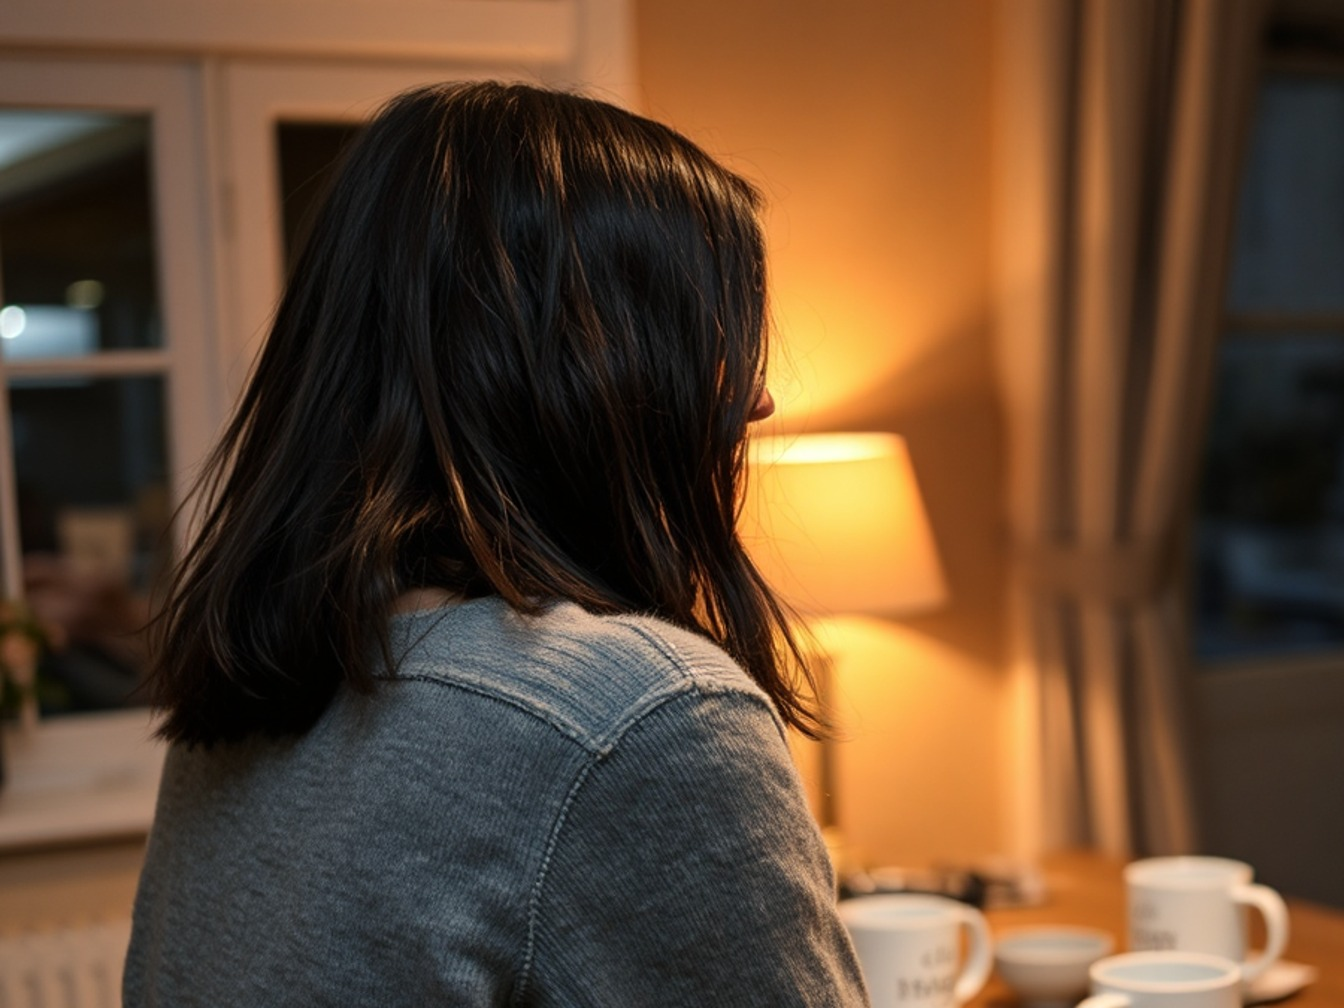
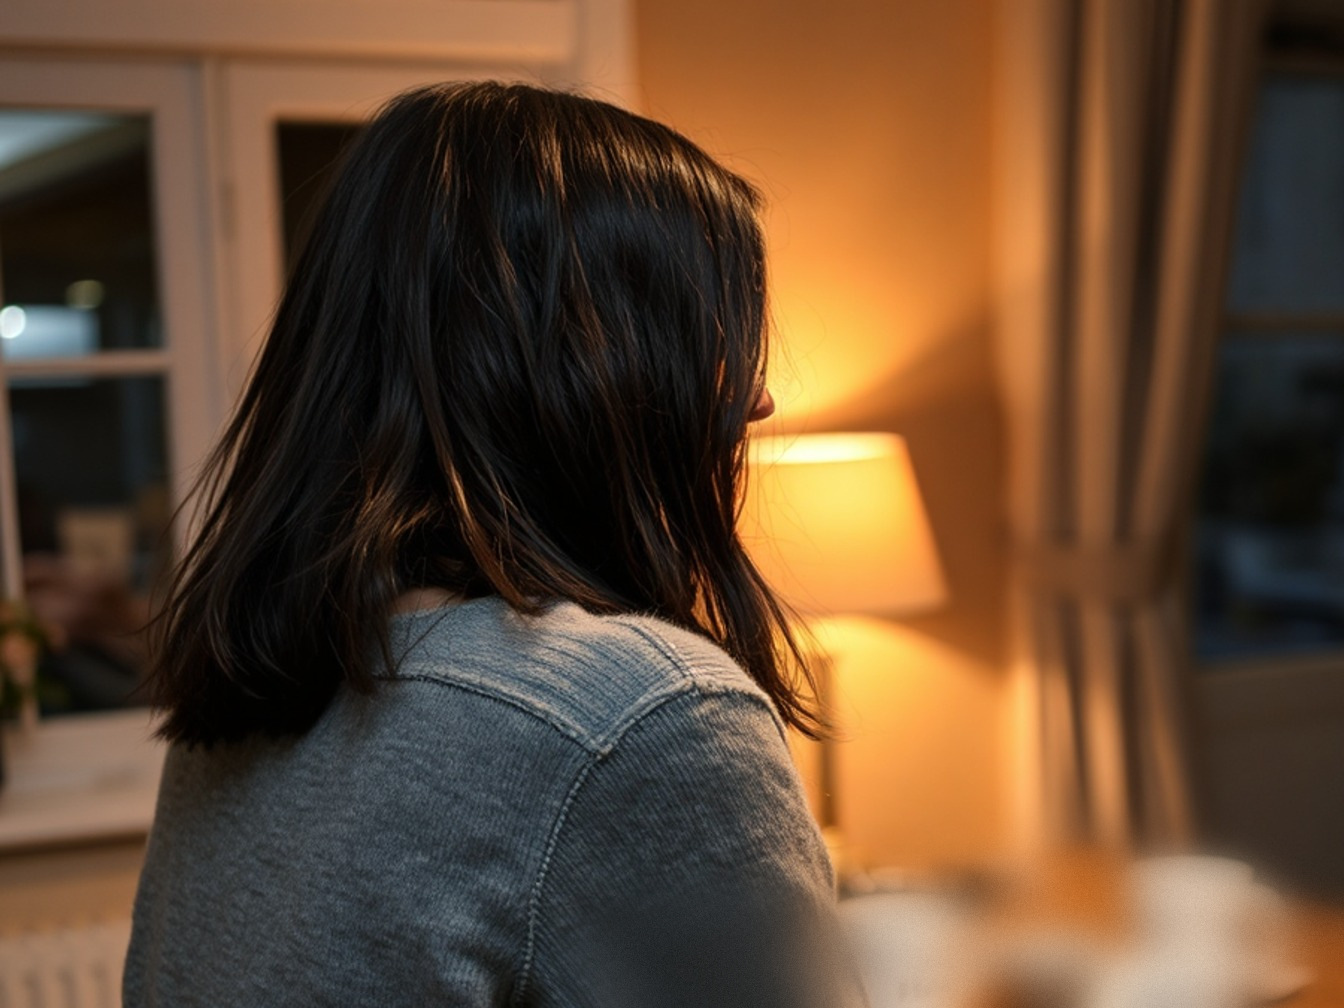
Two plates that only survived at thumbnail size
ph-maya.jpg had four mugs bottom-right, two of them melting into each other
and a saucer, every one carrying a few characters of invented writing. They
are already far outside the focal plane, so the repair is to put them where
the lens says they should be: unreadable bokeh, with grain put back over it.

ph-shop.jpg had a car whose front end dissolved into the right-hand wall —
there is no nose on it, it simply fades — and a rear tyre with raised
lettering that spells nothing. The nose is framed out, which is what somebody
standing in that bay would have framed anyway, and the sidewall is softened
until it reads as moulded rubber. Cloning rubber across it was tried first
and dragged the wheel face over the tyre, which looked worse than the
lettering did.

The shoulder yoke seam was on the list too and is deliberately left alone:
every mask that covered it also caught the hair or the collar, and the grey
smear that came back read worse than the seam. A saddle-shoulder knit has a
seam about there. The mugs had no such defence.

The burned-notebook board card was a 2.2x crop of the bottom-left corner of
the apartment photograph, which is a black patch of floor — so one of the
first three cards a player sees was a near-black rectangle. It has its own
plate now, generated at the same seed discipline as the rest.

Changed region(s): [[0.5938, 0.8304, 0.9688, 1.0]]

diff --git a/src/components/board/PolaroidArt.jsx b/src/components/board/PolaroidArt.jsx
@@ -362,7 +362,11 @@ const PHOTO_SCENES = {
   photo: { file: 'gallery-room.jpg' },
   clock: { file: 'gallery-room.jpg', zoom: 3.4, cx: 41.5, cy: 41 },
   corkboard: { file: 'cork-surface.jpg' },
-  notebook: { file: 'apartment-room.jpg', zoom: 2.2, cx: 12, cy: 70 },
+  // This was a 2.2x crop of the bottom-left corner of the apartment photo,
+  // which is a black patch of floor: the thread-B card on the board — one of
+  // the first three things a player sees — was a near-black rectangle. It is
+  // its own plate now.
+  notebook: { file: 'ph-notebook.jpg' },
 }
 
 function PhotoScene({ id, shot }) {

diff --git a/scripts/repair_plates.py b/scripts/repair_plates.py
@@ -1,0 +1,110 @@
+#!/usr/bin/env python3
+"""
+Targeted repair of two plates that survive at thumbnail size and fall apart
+at full plate size. Nothing here regenerates anything — a re-roll would move
+the seed and lose the framing — it repaints the specific places where the
+model produced something a camera cannot.
+
+    .venv-img/bin/python scripts/repair_plates.py
+"""
+from pathlib import Path
+from PIL import Image, ImageDraw, ImageFilter, ImageChops
+import numpy as np
+
+ROOT = Path(__file__).resolve().parent.parent
+ART = ROOT / "public" / "art"
+
+
+def feathered(size, boxes, feather):
+    """A soft mask over the given boxes/ellipses, so a repair has no edge."""
+    m = Image.new("L", size, 0)
+    d = ImageDraw.Draw(m)
+    for shape, box in boxes:
+        (d.ellipse if shape == "e" else d.rectangle)(box, fill=255)
+    return m.filter(ImageFilter.GaussianBlur(feather))
+
+
+def blur_under(im, mask, radius):
+    return Image.composite(im.filter(ImageFilter.GaussianBlur(radius)), im, mask)
+
+
+def clone(im, mask, dx, dy):
+    """Pull a patch from (dx, dy) away over the mask — the clone-stamp move."""
+    return Image.composite(ImageChops.offset(im, dx, dy), im, mask)
+
+
+def grain(im, mask, amount=4.0, seed=11):
+    """Repainted areas come out smoother than the film around them."""
+    rng = np.random.default_rng(seed)
+    a = np.asarray(im).astype(np.float32)
+    n = rng.normal(0, amount, a.shape[:2])[..., None]
+    out = np.clip(a + n, 0, 255).astype(np.uint8)
+    return Image.composite(Image.fromarray(out), im, mask)
+
+
+def maya():
+    """
+    ph-maya: the mugs bottom-right are the tell — four of them, two melting
+    into each other and a saucer, every one carrying a few characters of
+    invented writing. They are already far outside the focal plane, so the
+    repair is to put them where the lens says they should be: unreadable
+    bokeh.
+    """
+    p = ART / "ph-maya.jpg"
+    im = Image.open(p).convert("RGB")
+    w, h = im.size
+    mugs = feathered((w, h), [
+        ("e", (840, 830, 1360, 1030)),   # the right-hand pair and the saucer
+        ("e", (560, 880, 900, 1030)),    # the near mug and the handleless bowl
+    ], feather=26)
+    im = blur_under(im, mugs, 19)
+    im = grain(im, mugs, 3.2)
+
+    # The yoke seam across the shoulders was on the list too, and it is left
+    # alone on purpose: every mask that covered it also caught the hair or the
+    # collar, and the grey smear that came back read worse than the seam. A
+    # saddle-shoulder knit has a seam about there. The mugs did not have a
+    # defence; this does.
+
+    im.save(p, quality=93, subsampling=0)
+    print(f"· {p.name}: mugs defocused (yoke seam left alone — see note)")
+
+
+def shop():
+    """
+    ph-shop: the car's front end dissolves into the right-hand wall — there
+    is no nose on it, it simply fades — and the rear tyre carries raised
+    lettering that spells nothing. The nose is cropped out of frame, which
+    is what a person standing in that bay would have framed anyway, and the
+    sidewall is cloned over with the rubber beside it.
+    """
+    p = ART / "ph-shop.jpg"
+    im = Image.open(p).convert("RGB")
+
+    # the sidewall, before the crop moves the coordinates
+    letters = feathered(im.size, [
+        ("e", (760, 600, 850, 760)),   # the right-hand block of characters
+        ("e", (640, 620, 700, 780)),   # the left-hand block
+        ("e", (676, 556, 790, 610)),   # the brand blob at the top of the arc
+    ], feather=9)
+    # Cloning rubber across the sidewall dragged the wheel face over the tyre
+    # and left it looking motion-blurred, which was worse than the lettering.
+    # Real sidewall type is low-contrast moulded rubber; softening it until it
+    # reads as raised rubber rather than as characters is the honest repair.
+    im = blur_under(im, letters, 4.2)
+    im = grain(im, letters, 2.4, seed=5)
+
+    # frame the nose out: keep the rear three-quarter, which is the picture
+    w, h = im.size
+    keep_w = 1170
+    im = im.crop((0, 0, keep_w, int(keep_w * 2 / 3)))
+    im = im.resize((w, h), Image.LANCZOS).filter(
+        ImageFilter.UnsharpMask(radius=1.6, percent=62, threshold=3))
+
+    im.save(p, quality=93, subsampling=0)
+    print(f"· {p.name}: sidewall lettering cloned out, dissolving nose cropped out of frame")
+
+
+if __name__ == "__main__":
+    maya()
+    shop()

diff --git a/scripts/gen_art.py b/scripts/gen_art.py
@@ -132,6 +132,16 @@ ASSETS = {
         ),
     ),
     # stillwater_m's Flickr — a man who photographs places, competently.
+    # The board card for thread B. It used to be a crop of the bottom-left
+    # corner of apartment-room.jpg, which is a black patch of floor — a
+    # near-black rectangle on one of the first three cards a player sees.
+    "ph-notebook": dict(seed=64, w=1344, h=896, prompt=(
+        "Amateur phone photo, looking straight down at a scorched spiral notebook lying "
+        "open on a wooden chest of drawers beside a bed. The lower half of both pages is "
+        "burned away to a black crumbling edge; the paper that survives is browned and "
+        "cockled, covered in dense blue ballpoint handwriting too small to read. A loose "
+        "stack of papers under one corner, a pencil. A desk lamp out of frame lights it "
+        "from the left, the rest of the room dark. " + NIGHT + " " + CAMERA)),
     "ph-trail": dict(seed=41, w=1344, h=896, prompt=(
         "Amateur photo of a wet forest trail among tall Douglas firs, early morning light "
         "through the trunks, ferns, no people. " + DAY + " " + CAMERA)),
